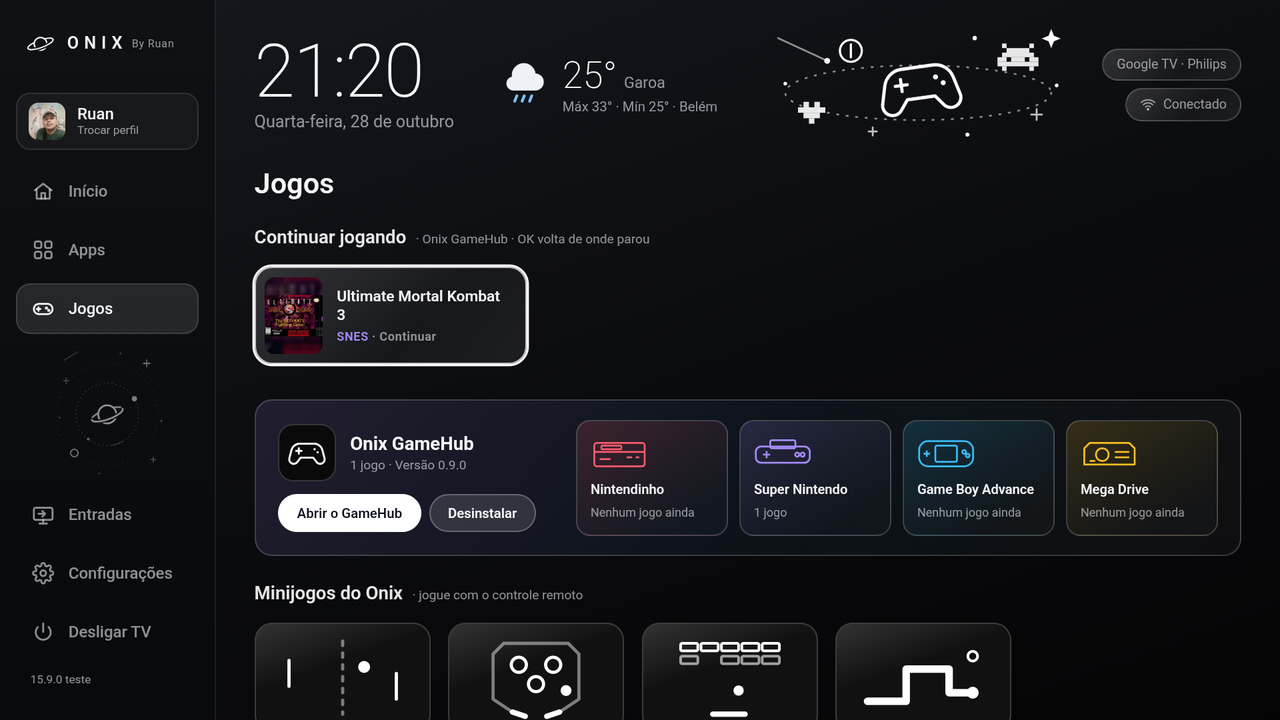
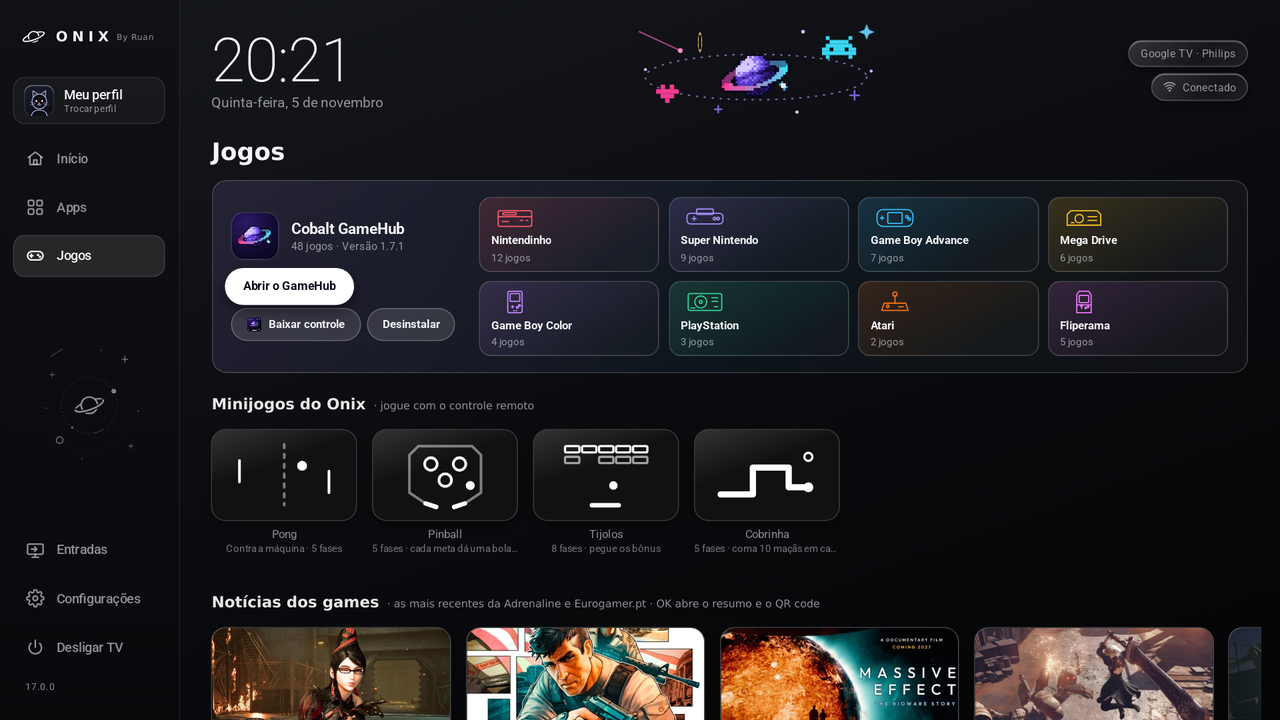
README: prints da 17.0.0 com os 4 temas novos e o relógio Flip
Tela inicial, Onix Cosmos e os temas tirados da TV. A aba Jogos usa
jogos de exemplo, sem capas de jogos comerciais.

diff --git a/README.md b/README.md
@@ -65,21 +65,33 @@ As versões anteriores estão no [CHANGELOG.md](CHANGELOG.md) e na [página de R
 <details>
 <summary><b>Capturas de tela</b></summary>
 
-| Onix Cosmos | Clean Glass |
+| Onix Cobalt | Onix Aurora |
 |---|---|
-| <img src="docs/screenshots/estilo-onix-cosmos.png" alt="Estilo Onix Cosmos"> | <img src="docs/screenshots/estilo-clean-glass.png" alt="Estilo Clean Glass"> |
+| <img src="docs/screenshots/tema-cobalt.png" alt="Tema Onix Cobalt, em pixel art"> | <img src="docs/screenshots/tema-aurora.png" alt="Tema Onix Aurora"> |
 
-| Modo Infantil | Configurações |
+| Onix Rubi Cinema | Onix White |
 |---|---|
-| <img src="docs/screenshots/modo-infantil.png" alt="Modo Infantil com o gatinho do Onix"> | <img src="docs/screenshots/configuracoes-inicio.png" alt="Estilo da tela inicial e Som da navegação"> |
+| <img src="docs/screenshots/tema-rubi.png" alt="Tema Onix Rubi Cinema"> | <img src="docs/screenshots/tema-white.png" alt="Tema Onix White, claro"> |
 
-| Apps | Jogos e notícias |
+| Relógio Flip | Onix Cosmos |
 |---|---|
-| <img src="docs/screenshots/apps.png" alt="Aba Apps com Recentes e Não usados"> | <img src="docs/screenshots/jogos.png" alt="Jogos e notícias dos games"> |
+| <img src="docs/screenshots/relogio-flip.png" alt="Relógio Flip na tela inicial"> | <img src="docs/screenshots/estilo-onix-cosmos.png" alt="Estilo Onix Cosmos"> |
 
-| Leitor de notícias | Entradas |
+| Clean Glass | Modo Infantil |
 |---|---|
-| <img src="docs/screenshots/noticia.png" alt="Leitor de notícias com QR code"> | <img src="docs/screenshots/entradas.png" alt="Entradas TV e HDMI"> |
+| <img src="docs/screenshots/estilo-clean-glass.png" alt="Estilo Clean Glass"> | <img src="docs/screenshots/modo-infantil.png" alt="Modo Infantil com o gatinho do Onix"> |
+
+| Configurações | Apps |
+|---|---|
+| <img src="docs/screenshots/configuracoes-inicio.png" alt="Estilo da tela inicial e Som da navegação"> | <img src="docs/screenshots/apps.png" alt="Aba Apps com Recentes e Não usados"> |
+
+| Jogos e notícias | Leitor de notícias |
+|---|---|
+| <img src="docs/screenshots/jogos.png" alt="Jogos e notícias dos games"> | <img src="docs/screenshots/noticia.png" alt="Leitor de notícias com QR code"> |
+
+| Entradas | |
+|---|---|
+| <img src="docs/screenshots/entradas.png" alt="Entradas TV e HDMI"> | |
 
 </details>
 
